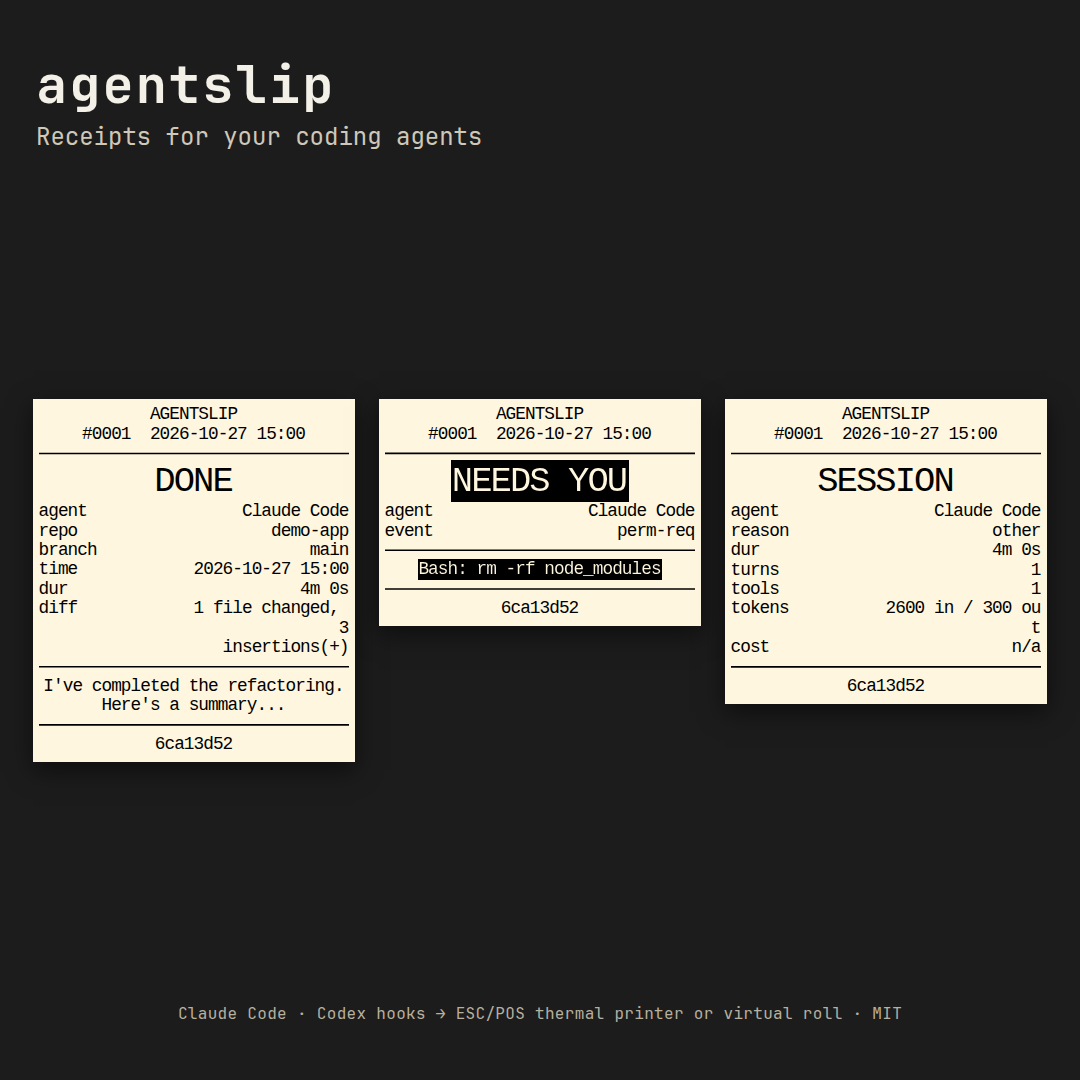
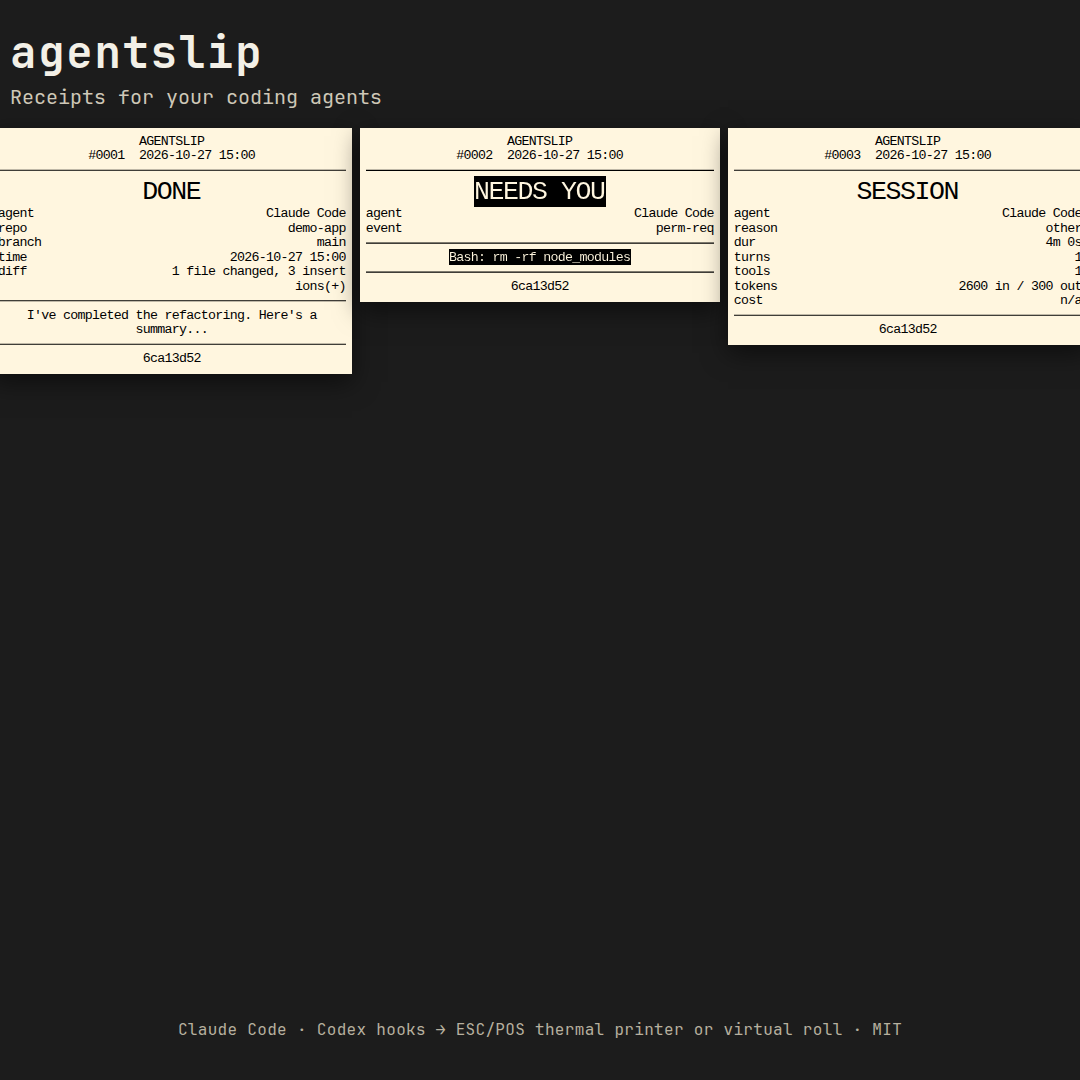
fix: 80 mm social cards so SESSION does not split out
Generate all three preview slips in one AGENTSLIP_HOME at widthMm 80, like Pages, numbered #0001–#0003. Cards are ~360 px wide. SESSION shows 2600 in / 300 out on one line. Pages title / og:title / twitter:title updated; 58 mm wrap is tracked separately.

diff --git a/CHANGELOG.md b/CHANGELOG.md
@@ -13,7 +13,7 @@
 - README links the [published demo](https://estebanindiveri.github.io/agentslip/) and [releases](https://github.com/EstebanIndiveri/agentslip/releases).
 - Offline pack-global bundle names are derived from `package.json` dependencies (plus nested deps) and throw if a listed dependency is missing from `node_modules`. A throwaway probe package's `npm pack` (no `--ignore-scripts`) fails when its `prepare` exits non-zero; agentslip's own `prepare` is checked by running `npm run prepare` on a copy of the tree.
 - Secrets split across lines (bash `\` continuation, `postgres://admin:` then a newline then the password) are deferred to v0.1.3.
-- Pages preview: description, canonical, Open Graph and Twitter card tags; sitemap; `social-preview.png` copied into the build. SESSION on the social card uses the transcript fixture (duration, turns, tools, tokens; cost stays `n/a`).
+- Pages preview: description, canonical, Open Graph and Twitter card tags; sitemap; `social-preview.png` copied into the build. `<title>` / `og:title` / `twitter:title` name thermal receipts. SESSION on the social card uses the transcript fixture (duration, turns, tools, tokens; cost stays `n/a`).
 - README: live preview (GitHub Pages) and releases links; session totals wording (nothing estimated).
 - Documented install (from 0.1.1, previously Unreleased): clone + `npm install` + `npm link` (`npm unlink -g agentslip` to remove), or `npm pack` after `npm install` then `T=$(npm pack --silent | tail -n1)` and `npm install -g "./$T"` (`npm uninstall -g agentslip` to remove). `npm install -g github:EstebanIndiveri/agentslip` does not work with the current `prepare` script (leaked global prefix, `tsc` not found). The pack tarball served over HTTP, and committing `dist/` without `prepare` (HTTP tarball or `git+file:` with `--install-links`), do work. A non-global `npm install github:EstebanIndiveri/agentslip` in a project still works.
 

diff --git a/README.md b/README.md
@@ -4,7 +4,7 @@
 
 Claude Code and Codex hooks that print a small paper slip when your agent is **done**, when it **needs you**, and when the **session ends**. Use a network ESC/POS thermal printer (58 mm or 80 mm), or the built-in **virtual paper roll** in your browser — no hardware required.
 
-The hook never blocks the agent (it always exits 0 in under 2 seconds), redacts [common secret patterns](#privacy) before a slip is rendered, and sends nothing anywhere except the printer you configure on your LAN. Session totals (duration, turns, tools, tokens) are printed only when the session transcript contains them; otherwise the slip says `n/a`. Nothing is estimated.
+The hook never blocks the agent (it always exits 0 in under 2 seconds), redacts [common secret patterns](#privacy) before a slip is rendered, and sends nothing anywhere except the printer you configure on your LAN. Session totals (duration, turns, tools, tokens, and cost (when the transcript has it)) are printed only when the session transcript contains them; otherwise the slip says `n/a`. Nothing is estimated.
 
 `agentslip hook` reads the JSON that Claude Code or Codex sends on stdin:
 
